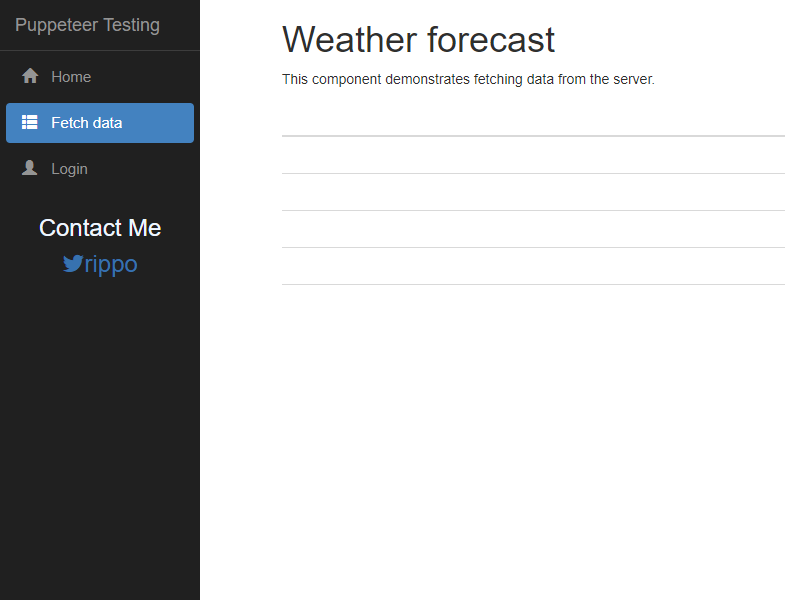
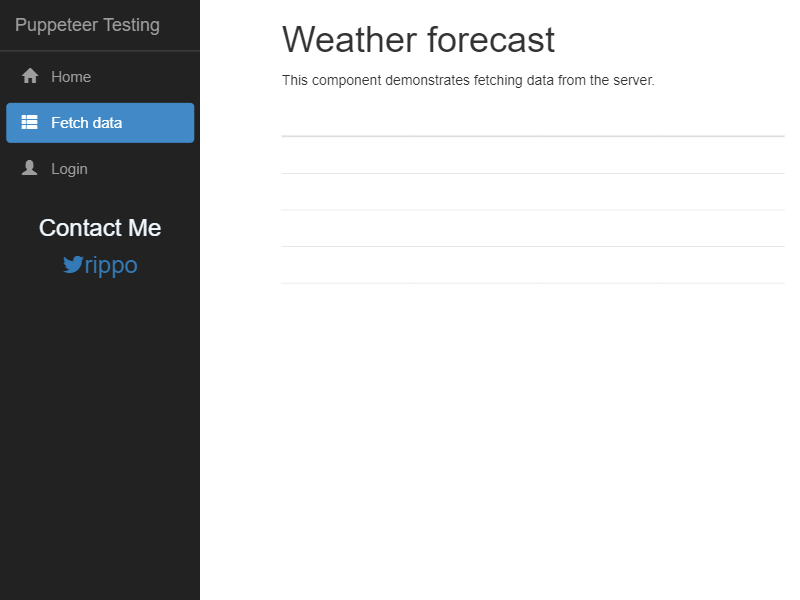
Laptop changes - reqady for DDDSW

diff --git a/tests/test03.js b/tests/test03.js
@@ -22,7 +22,10 @@ describe('When I take a screenshot of the home page', () => {
     //save home page as an image
     it('it returns a buffer', test(async (browser, opts) => {
         let page = await browser.newPage();
+        await page.setViewport({ width:800, height:600});
+
         await page.goto(`${opts.appUrl}`);
+
         await page.waitFor('h1');
         const screen = await page.screenshot(
             { path: downloadedImage });
@@ -49,6 +52,5 @@ describe('When I take a screenshot of the home page', () => {
             expect(equal).to.equal(true);
             done();
         });
-
     });
 });

diff --git a/tests/Metrics/test04.js b/tests/Metrics/test04.js
@@ -21,9 +21,9 @@ describe('When looking at the performance', () => {
         );
         expect(timeElasped).to.be.at.most(1500);
 
-        // const metrics = await page.metrics();
-        // console.log(metrics);
-        // //lets get how long the page took to run the scripts
-        // expect(metrics.ScriptDuration).to.be.at.most(0.50);
+        //const metrics = await page.metrics();
+        //console.log(metrics);
+        //lets get how long the page took to run the scripts
+        //expect(metrics.ScriptDuration).to.be.at.most(0.20);
     }));
 });

diff --git a/grabs/setup.js b/grabs/setup.js
@@ -12,6 +12,7 @@ async function run() {
     }); 
 
     const page = await browser.newPage(); 
+    await page.setViewport({ width:800, height:600});
 
     await page.goto('http://localhost:5000');
 
